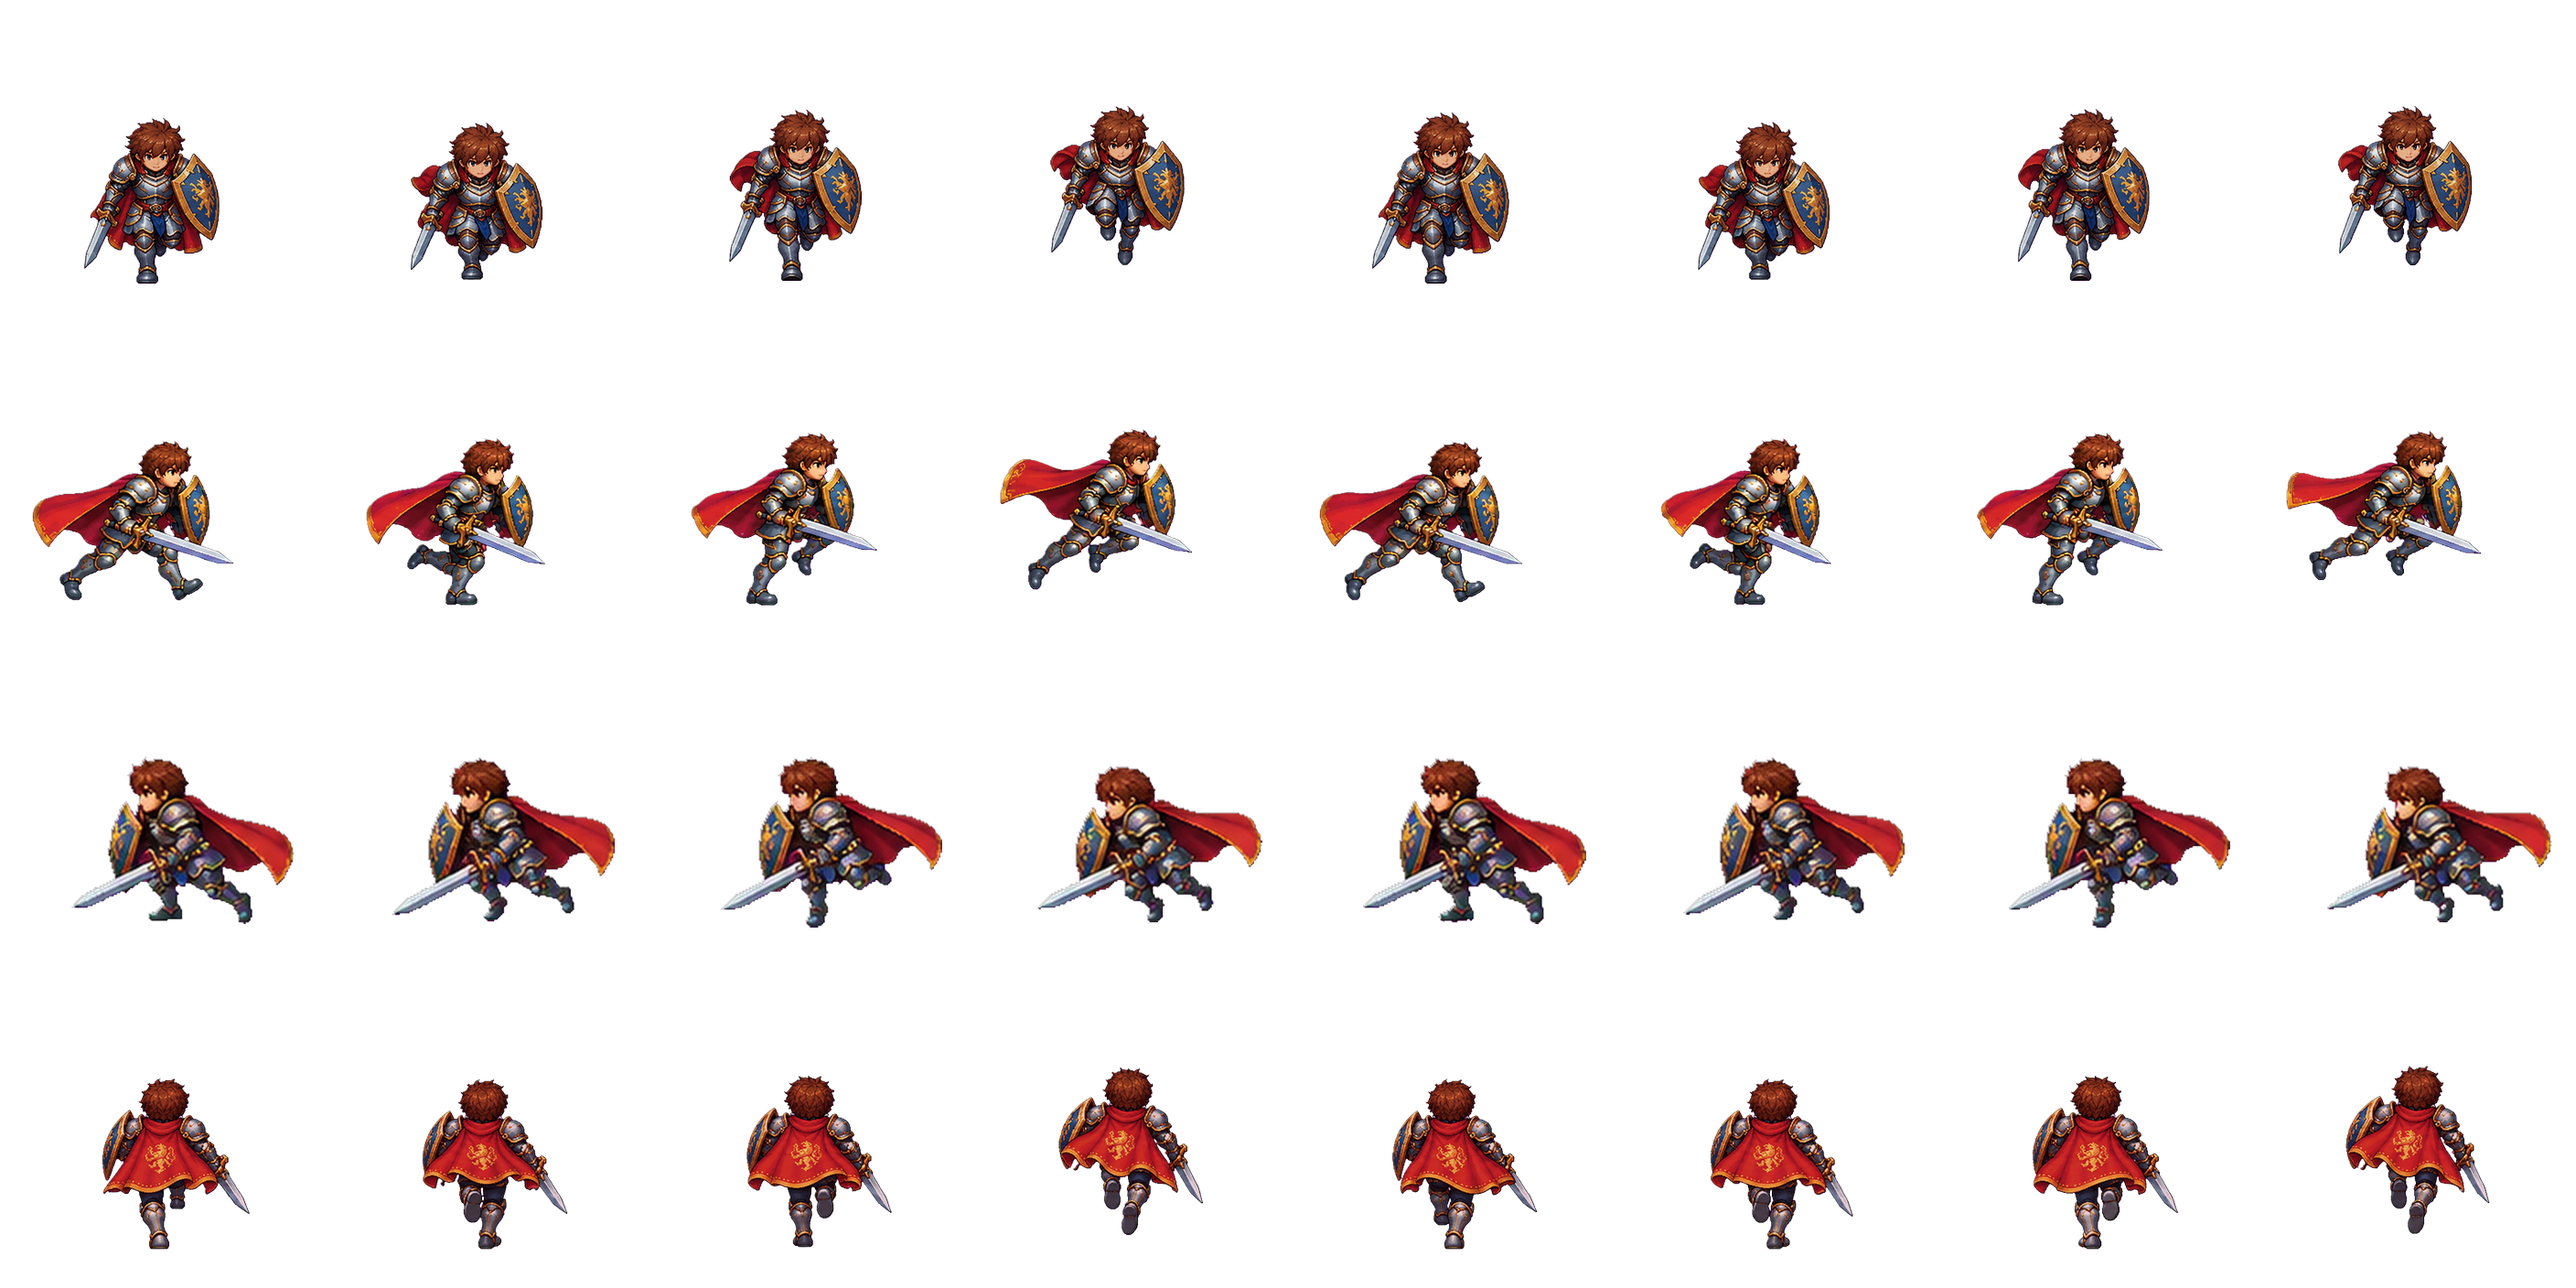
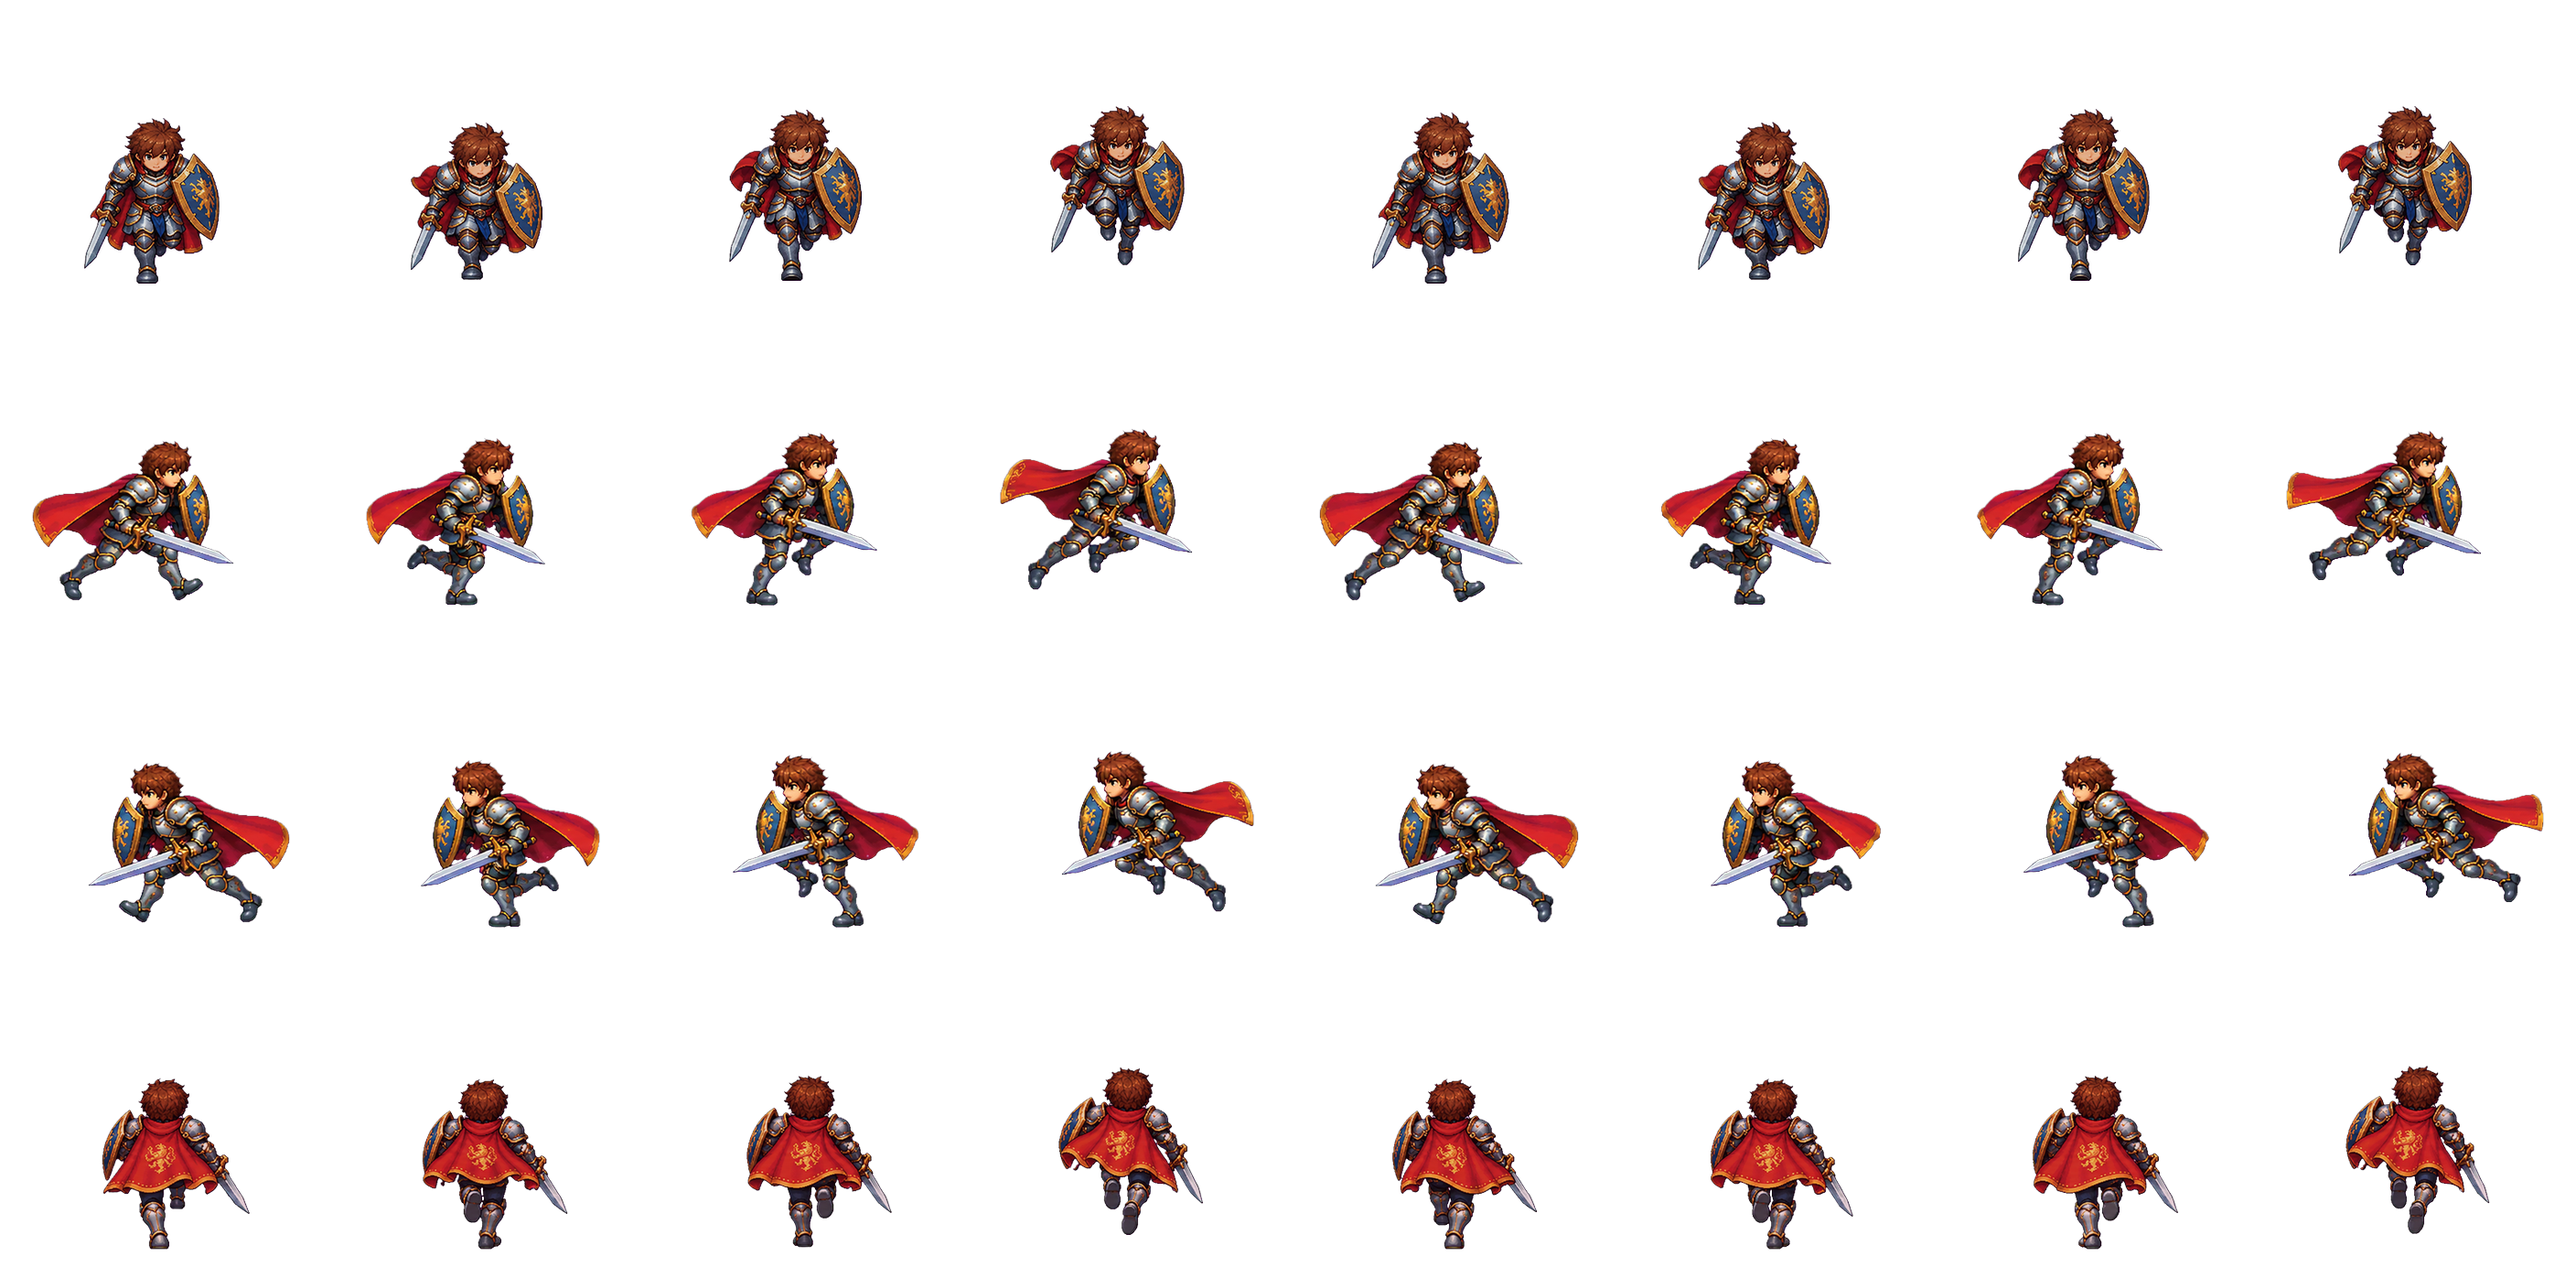
War Cry: longer sustained roar (pose held, rolling shockwaves, steady shake); run left row mirrored from the on-model right row
Claude-Session: https://claude.ai/code/session_019q8CMrxghbNzj8w42KsHoP

diff --git a/src/skills/SkillFx.ts b/src/skills/SkillFx.ts
@@ -258,8 +258,12 @@ export class SkillFx {
       this.scene.tweens.add({ targets: pillar, alpha: 0, delay: 160, duration: 420, onComplete: () => pillar.destroy() });
       const flash = this.scene.add.image(c.x, c.y - c.z - 50, 'dmg-glow').setBlendMode(Phaser.BlendModes.ADD).setTint(0xffffff).setDepth(TOP).setDisplaySize(120, 120);
       this.scene.tweens.add({ targets: flash, displayWidth: 380, displayHeight: 380, alpha: 0, duration: 260, ease: 'Cubic.easeOut', onComplete: () => flash.destroy() });
-      for (let i = 0; i < 3; i++) this.scene.time.delayedCall(i * 110, () => this.shockwave(c.x, c.y, 200 + i * 70, i === 1 ? 0xffffff : 0xffd36a));
-      (this.cam ?? this.scene.cameras.main).shake(260, 0.008);
+      const waves = Math.max(3, Math.round(T.active / 150)); // the roar keeps ringing out for the whole active window
+      for (let i = 0; i < waves; i++) this.scene.time.delayedCall(i * 150, () => { const p = this.casterPos(r.attackerId) ?? c; this.shockwave(p.x, p.y, 200 + (i % 3) * 70, i % 3 === 1 ? 0xffffff : 0xffd36a); });
+      const hold = this.scene.add.image(c.x, c.y - c.z - 50, 'dmg-glow').setBlendMode(Phaser.BlendModes.ADD).setTint(0xffd36a).setDepth(c.y - 1).setDisplaySize(190, 230).setAlpha(0.75);
+      this.scene.tweens.add({ targets: hold, scaleX: hold.scaleX * 1.12, scaleY: hold.scaleY * 1.12, yoyo: true, repeat: -1, duration: 110 });
+      this.scene.tweens.add({ targets: hold, alpha: 0, delay: T.active, duration: 300, onComplete: () => { this.scene.tweens.killTweensOf(hold); hold.destroy(); } });
+      (this.cam ?? this.scene.cameras.main).shake(T.active, 0.006);
     });
   }
 

diff --git a/src/skills/FinalKit.ts b/src/skills/FinalKit.ts
@@ -140,7 +140,7 @@ const warrior: FinalSkill[] = [
   }),
   S({
     id: 'war_cry', cls: 'warrior', slot: 12, name: 'War Cry', roles: ['setup', 'pull'], targeting: 'self',
-    startup: 320, active: 160, recovery: 200, cooldown: 15000, ground: true, air: true, cover: 'IGNORES_COVER', move: LOCK, armor: [0, 680],
+    startup: 360, active: 900, recovery: 240, cooldown: 15000, ground: true, air: true, cover: 'IGNORES_COVER', move: LOCK, armor: [0, 1500],
     hits: [H(0, 6, { kind: 'circle', radius: 170 }, { stun: 420, pull: 34 }, { reachUp: 140 })],
     cancelOnHit: ['dash_slash', 'leap_crash', 'lance_thrust', 'blade_storm'], tags: ['buff'],
     description: 'Battle roar — also breaks free from stun, hits and knockdowns: pulls nearby foes in and grants a golden aura for 8s — +20% damage and super armor while attacking.',

diff --git a/src/game/Body.ts b/src/game/Body.ts
@@ -192,7 +192,7 @@ const SKILL_PLAN: Record<string, { st: number[]; ac: number[]; rc: number[] }> =
   radiant_blade: { st: [0, 1, 2, 3, 3, 4, 4, 4, 4, 5], ac: [6], rc: [6, 7, 7] }, // raise, hold for the lightning, brace, sweep down, ready
   sanctuary: { st: [0, 1, 2, 3, 4, 5], ac: [6, 6], rc: [6, 7] },
   lance_thrust: { st: [0, 1], ac: [2, 3, 2, 3, 4, 5], rc: [6, 7] },
-  war_cry: { st: [0, 1, 2, 2, 3], ac: [3, 4], rc: [4, 5, 6, 7] } };
+  war_cry: { st: [0, 1, 2, 3], ac: [3, 4, 4, 4, 4, 4, 4, 4, 4], rc: [5, 6, 7] } };
 
 function skillColumn(cols: number, q: Extract<PoseQuery, { k: 'skill' }>, offset: number): number {
   const { elapsed: e, startup: s, active: a, recovery: r } = q;
